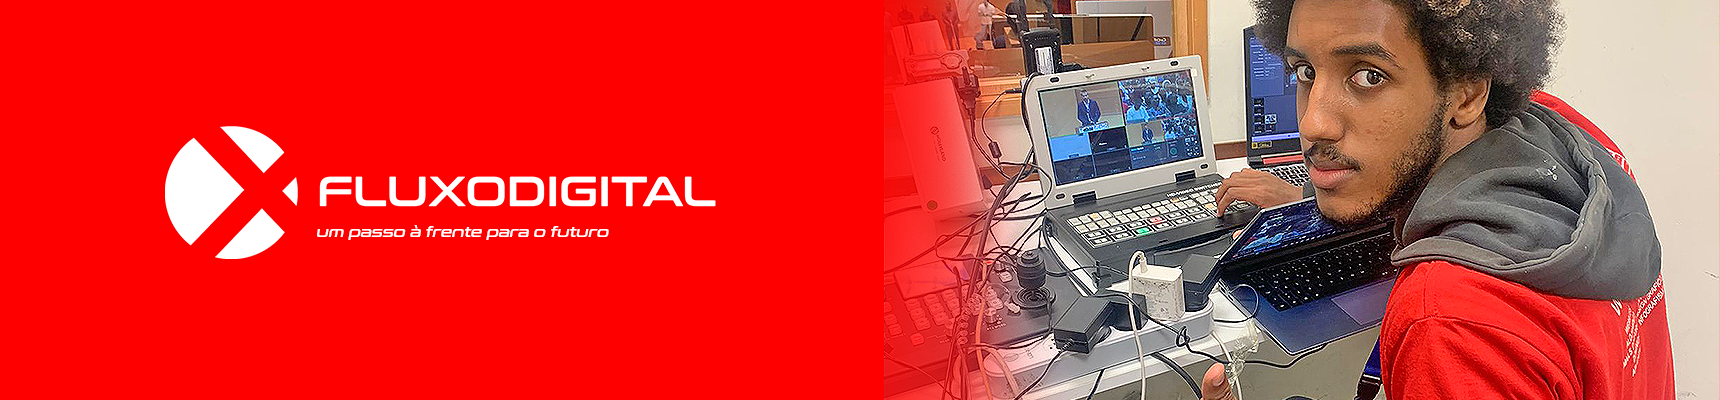
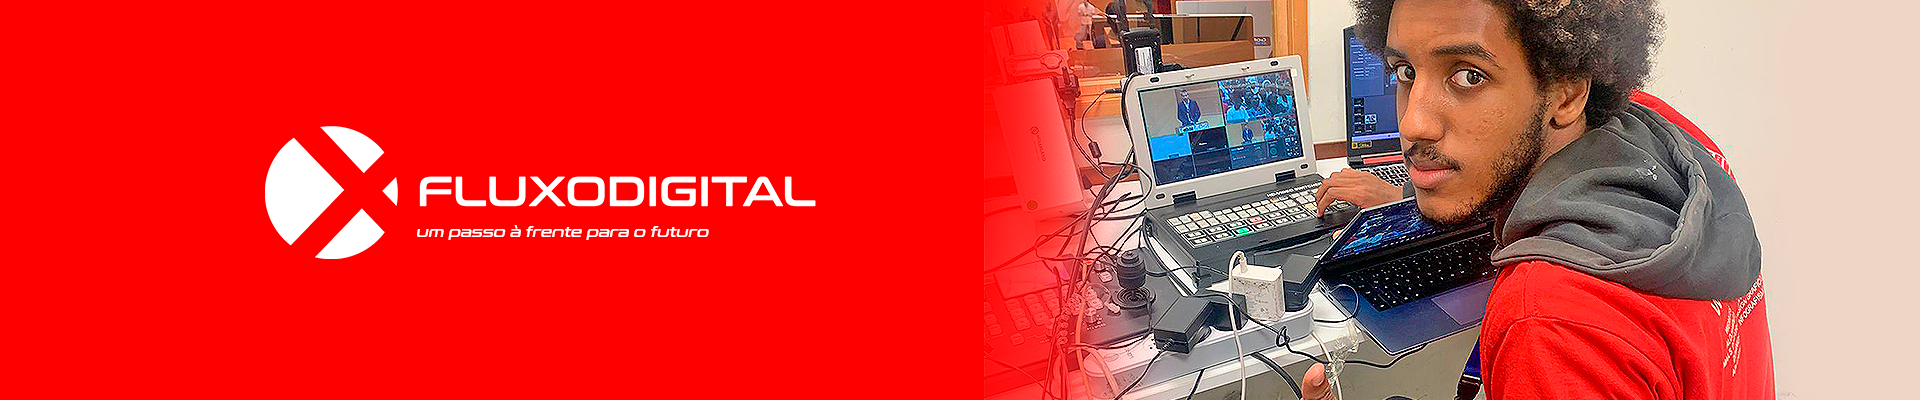
rectificação do slider principal, resta redimensionar o viewport

diff --git a/src/app/paginas/inicio/inicio.component.html b/src/app/paginas/inicio/inicio.component.html
@@ -1,7 +1,6 @@
 <app-navbar></app-navbar>
 <app-slider></app-slider>
 
-
 <div class="uk-container" style="margin-top: 22%;">
   <div class="uk-child-width-1-3@m uk-grid-small uk-grid-match" uk-grid>
     <div>
@@ -66,7 +65,7 @@
 
         <h3><b>Soft Ilimitado</b></h3>
         <p>Espaço em SSD <br> Tráfego Mensal Ilimitado <br> Contas de Email Ilimitadas <br> 50 Bases de dados <b><br> partir de 18.000 Kz/ano</b></p>
-        <a  href="https://softechost.com/cart.php?a=add&pid=5" target="_blank"><button routerLink="https://softechost.com/cart.php?a=add&pid=5" class="uk-button uk-button-danger uk-button-default uk-border-pill">SOLICITAR AGORA</button></a>
+        <a  href="https://softechost.com/cart.php?a=add&pid=9" target="_blank"><button routerLink="https://softechost.com/cart.php?a=add&pid=5" class="uk-button uk-button-danger uk-button-default uk-border-pill">SOLICITAR AGORA</button></a>
 
 
 
@@ -173,6 +172,8 @@
 <p class="uk-text-center"><button routerLink="/contacto" class="uk-border-pill uk-button-danger uk-button-default uk-button-large">CONTRATE-NOS</button></p>
 </div>
 </div>
+
+
 
 
 

diff --git a/src/app/layout/slider/slider.component.html b/src/app/layout/slider/slider.component.html
@@ -8,15 +8,15 @@
 
 <div class="uk-position-relative uk-light uk-flex uk-flex-center uk-flex-middle" uk-slideshow="animation: push; autoplay: true; autoplay-interval: 3000;">
 
-  <ul class="uk-slideshow-items uk-width-1-1 uk-position-cover">
+  <ul class="uk-slideshow-items uk-text-center uk-width-1-1 uk-position-cover">
     <li>
-      <img src="/assets/slide-fluxodigital-1.png" alt="">
+      <img class="uk-border-rounded" src="/assets/slide-fluxodigital-1.png" alt="">
     </li>
     <li>
-      <img src="/assets/slide-fluxodigital-2.png" alt="">
+      <img class="uk-border-rounded" src="/assets/slide-fluxodigital-2.png" alt="">
     </li>
     <li>
-      <img src="/assets/slide-fluxodigital-3.png" alt="">
+      <img class="uk-border-rounded" src="/assets/slide-fluxodigital-3.png" alt="">
     </li>
   </ul>
 

diff --git a/src/app/layout/slider/slider.component.css b/src/app/layout/slider/slider.component.css
@@ -1,6 +1,9 @@
 .uk-slideshow-items {
 
 max-height:max-content;
+height: 10px;
+align-items: center;
+viewport-fit: contain;
 
 ;}
 
@@ -14,6 +17,8 @@ max-height:max-content;
 .slideshow {
   display: flex;
   flex-wrap: wrap;
+  object-fit: fill;
+  height: 100px;
 }
 
 @media (max-width: 768px) {
